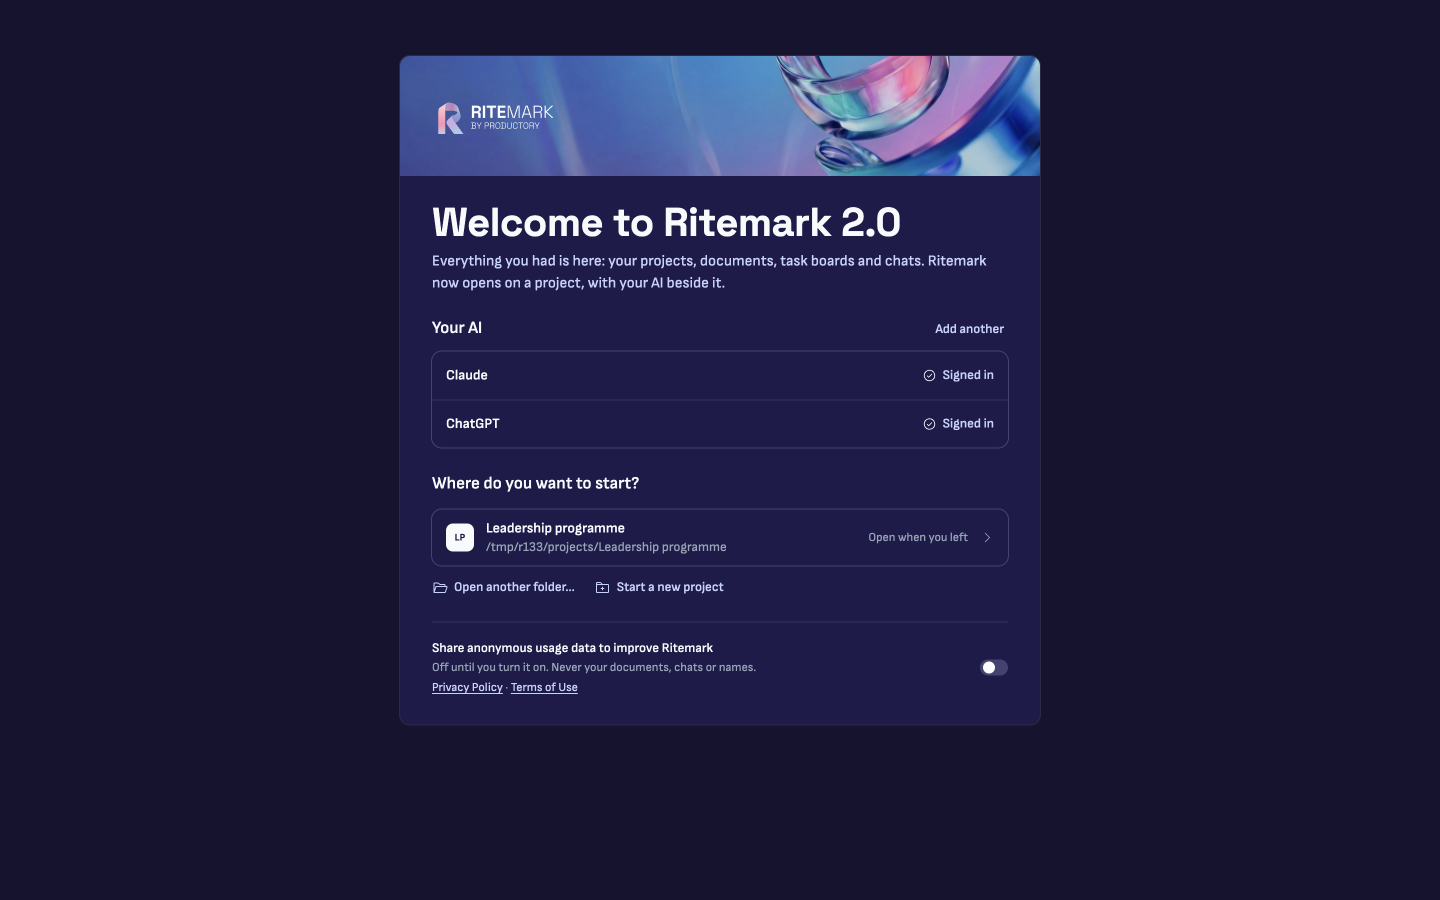
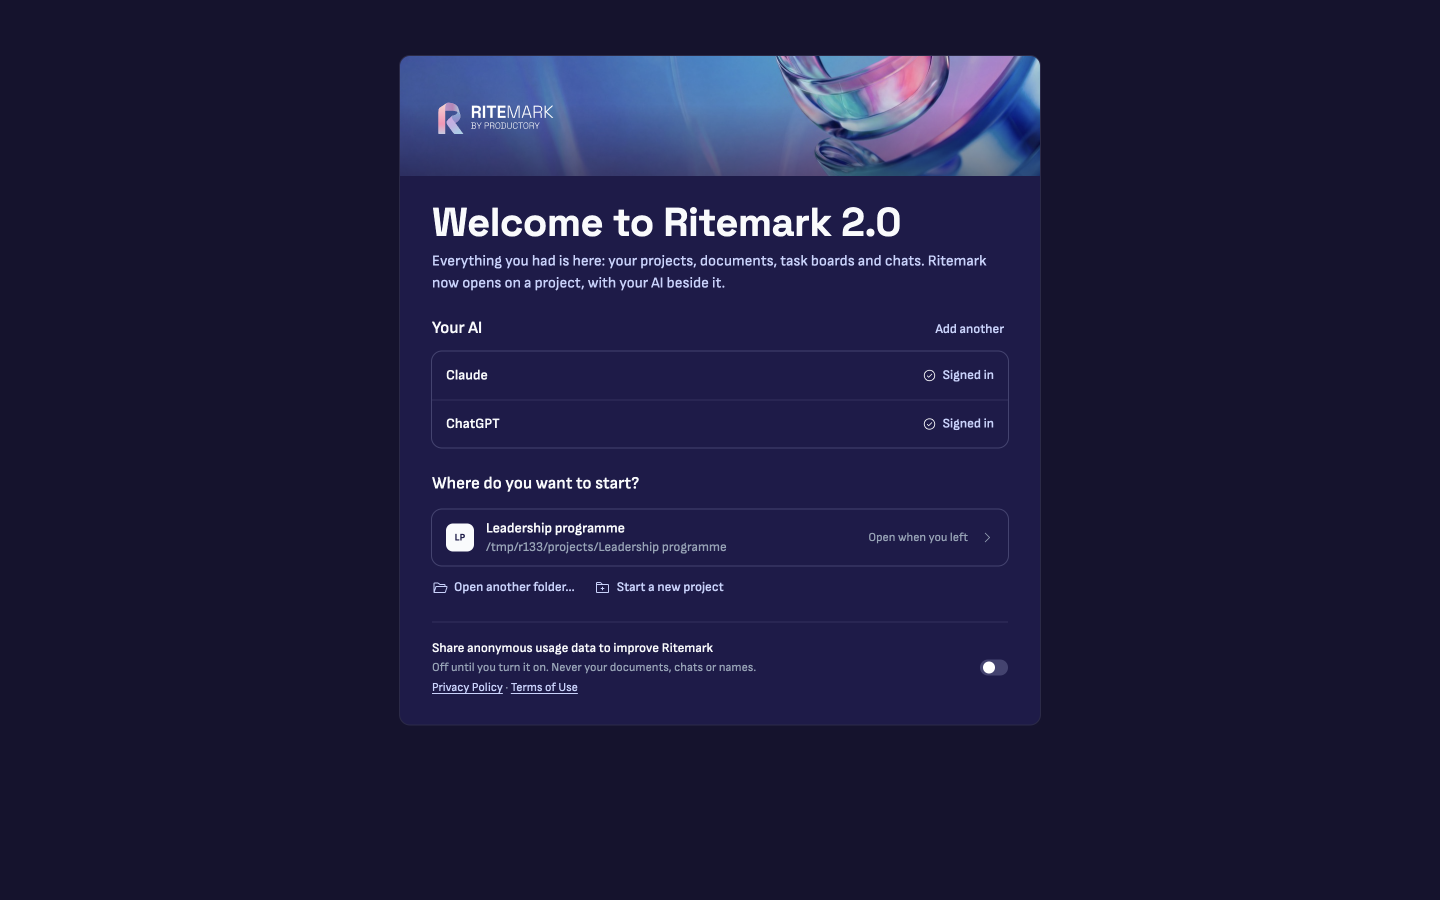
docs(sprint-133): #401 decided with Windows round 2; the welcome's frames again
- The #401 audit's Windows half (round 2 at f492948b): the first start's
  ~20 s are the extension host reading newly installed files (79%
  readFileSync, Defender scanning on first read); a second start reads them
  in 202 ms; Ritemark's CPU ~6%. Decided: nothing to move in activate();
  R15's guarantee holds the welcome usable.
- The code-cache lead: the missing product.json commit costs each window its
  V8 code cache (main bundle 302-307 ms on the Mac, CachedData empty), not
  the extension host, which has no compile cache in 1.117. Every reader of
  product.commit listed; stamping it is proposed as its own measured change.
- qa-evidence.md: the Experience lead's review and calls, S3 now passing,
  the merge's rechecks; the update and start sheets captured with the shade.

Changed region(s): [[0.2812, 0.1244, 0.7188, 0.2178]]

diff --git a/docs/development/releases/v2.0.0/sprint-133-welcome/qa-evidence.md b/docs/development/releases/v2.0.0/sprint-133-welcome/qa-evidence.md
@@ -1,6 +1,6 @@
 # Sprint 133 QA evidence
 
-Run on 18 October 2026, on the Mac (Apple Silicon), from `sprint-133-welcome`, on dev instances of this worktree launched in the background (`open -n -g`) with their own short user-data and extensions directories and their own debugging port, driven over CDP. Nothing ran on Jarmo's own profile. "Fresh" is an empty profile; "v1.14.0 profile" is one made with the installed v1.14.0, copied before each run. Usage-data sends went to a local stand-in for PostHog (`127.0.0.1:9450`) that records each request.
+Run on 18 October 2026, on the Mac (Apple Silicon), from `sprint-133-welcome` (rechecked after main's #452 was merged in), on dev instances of this worktree launched in the background (`open -n -g`) with their own short user-data and extensions directories and their own debugging port, driven over CDP. Nothing ran on Jarmo's own profile. "Fresh" is an empty profile; "v1.14.0 profile" is one made with the installed v1.14.0, copied before each run. Usage-data sends went to a local stand-in for PostHog (`127.0.0.1:9450`) that records each request.
 
 The screenshots are in [qa-evidence/](qa-evidence/), at 1440 × 900 for the welcome's own scenes (`scripts/qa/welcome-screenshots.mjs`) and 1200 × 800 for the rest.
 
@@ -12,9 +12,9 @@ Windows (S45–S47 and R15's Windows half) is not in this file yet: it runs thro
 |---|---|---|
 | S1 A fresh start with no folder | Pass | `scripts/qa/welcome-check.mjs --expect alone`: 8 of 8 (the welcome open and alone, both columns closed, no tabs, no status bar, the sheet 640 wide and centred, no Getting Started). `light-welcome-step-1.png`, `dark-welcome-step-1.png`. No terminal opened. |
 | S2 The keyboard and a screen reader | Pass for the keyboard; VoiceOver not run | Tab goes Continue/Sign in for ChatGPT, then Claude, Set up OpenCode, API keys, Skip for now, and round again. Enter and Space press; Escape closes the sheets. Two fixes from this run (below): each card's button now names its AI and is described by the card's words and state ("Continue with Claude", described "Sign in with the account you already use. / Signed in"), and focus goes back to the button that opened a sheet. VoiceOver was not turned on (a system setting on Jarmo's Mac); the accessible names and descriptions were read from the page instead. |
-| S3 Dark | Pass for the sheet's text; one label open | Every text on the sheet measured against its ground: lowest 6.03:1 in Dark, all above 4.5:1 in Light. The header's step labels sit on the illustration: "1 · Your AI" about 6.5:1 at the median pixel, but "2 · Set up project" (80% white, the kit's value, `ritemark.css:677`) about 3.4:1 on step 1. Taken to the Experience lead (below). |
+| S3 Dark | Pass | Every text on the sheet measured against its ground: lowest 6.03:1 in Dark, all above 4.5:1 in Light. The header's step labels sit on the illustration; at first "2 · Set up project" (80% white, the kit's value) was about 3.4:1. With the Experience lead's shade at the header's foot it was still 4.3:1 at its worst pixel, so both labels are full white: worst pixel 5.66:1, median 6.9:1, on steps 1 and 2 (measured against the header captured with the labels hidden). |
 | S4 The three cards | Pass | Step 1 as drawn: ChatGPT and Claude with "Sign in with the account you already use.", OpenCode with "Open models, with an API key of your own.", "You can use more than one.", API keys, Skip for now. "Codex" appears nowhere on the page. |
-| S5 API keys | Partly | The sheet opens over the welcome with the Anthropic key only (`light-welcome-key-sheet.png`); the protocol refuses an OpenAI key as a way to use ChatGPT (`welcomeState.test.ts`). Saving a real Anthropic key was not run: there is no spare key, and this Mac's Claude is signed in. The saved-key path (Checking…, then step 2) is unit-tested and was fixed in `d3cfd860`. |
+| S5 API keys | Partly | The sheet opens over the welcome with the Anthropic key only, drawn as experience 31's dialog (`*-welcome-key-sheet.png`: 440 wide, radius 12, padding 20, 32-high buttons, no X; dim 18% ink in Light, 50% near-black in Dark); the protocol refuses an OpenAI key as a way to use ChatGPT (`welcomeState.test.ts`). Saving a real Anthropic key was not run: there is no spare key, and this Mac's Claude is signed in. The saved-key path (Checking…, then step 2) is unit-tested and was fixed in `d3cfd860`. |
 | S6 Skip for now | Pass | Step 2 with "Your AI works only inside it."; no skip on step 2. |
 | S7 Already signed in | Pass | This Mac is signed in to Claude and ChatGPT: both cards show Checking…, then Signed in with Continue. |
 | S8–S11 Signing in, cancelling, failing | Not run | Each opens Jarmo's browser on his real accounts. The card states, the one-sentence failures and their words are unit-tested (`welcomeState.test.ts`: no code, "authentication", "Codex" or "runtime" in any of them). Needs a run on a signed-out machine (the Windows round can cover it). |
@@ -70,12 +70,16 @@ Each is in the commit that adds this file.
 5. **The update sheet at 1440 × 900.** With three projects it overflowed by 24 px and the scrollbar pushed the sheet 6 px left. The short sheets now keep 12 px below as above, and the scrollbar's room is kept on both edges.
 6. **A Sign in click shows progress at once (R15, #401).** On a busy first start the host can take seconds to answer; the card now shows Checking… from the click until the host's next word about that AI, so a second click can't happen (`welcomeState.test.ts`).
 
-## Open findings
+## The Experience lead's review (18 October)
 
-For the Experience lead:
-- "2 · Set up project" in 80% white on the header illustration is about 3.4:1 (11 px). Full white would be about 4.3:1; passing needs a soft shade under the progress bar or a darker crop.
-- The keys sheet's dimming covers the page, not the window's top band or edges, because it lives inside the page.
-- The AI's sheet says "Claude can work with your files" whatever the AI (`EmptyState.tsx`, from before this sprint). The landing now shows it to people who chose ChatGPT or OpenCode.
+The welcome matches experiences 2 and 32 in both themes. Their three calls, done in `719b4db7`:
+1. A soft shade at the foot of all three headers (`linear-gradient(to top, rgba(22,19,47,.45), transparent 72px)`); over it the 80% label was still 4.3:1 at its worst pixel, so both step labels are full white, their fallback (S3).
+2. The keys sheet is experience 31's dialog (S5). The dim stays inside the welcome's page: letting the page cover the whole window would put a webview over the window's drag area and Windows' buttons, more than a small change, which they accepted for step 2.
+3. The AI's sheet names the AI in use: "Claude / OpenCode can work with your files" (`EmptyState.tsx`), "ChatGPT can work with your files" (Codex's own empty state). Checked live for Claude and ChatGPT; OpenCode by code (no key on the test profile). The composer's "Ask Codex…" is unchanged, from before this sprint.
+
+Also from the qa-validator: the welcome now saves an OpenRouter key only with `opencode-integration` on, as Settings does.
+
+## Open findings
 
 Outside this sprint's files, for follow-up issues:
 - Flows' storage (`FlowStorage.ts:44`, a recursive `mkdir` of `.ritemark/flows`) brings back a project folder that was deleted while it was open.
@@ -83,13 +87,14 @@ Outside this sprint's files, for follow-up issues:
 
 ## The frame baseline
 
-`scripts/qa/frame-screenshots.mjs --compare docs/development/frame-baseline` on a fresh profile with the baseline's sample project: 0 of 18 scenes over the 0.5% line (0–0.34%), all of it the muted extensions in the tree and tabs. The baseline is unchanged; the welcome's own scenes are in `qa-evidence/` for Jarmo to approve into the baseline (`docs/development/frame-baseline/README.md`: a new baseline only with his approval).
+`scripts/qa/frame-screenshots.mjs --compare docs/development/frame-baseline` on a fresh profile with the baseline's sample project: 0 of 18 scenes over the 0.5% line (0–0.34%), all of it the muted extensions in the tree and tabs. The same after main's #452 was merged in. The baseline is unchanged; the welcome's own scenes are in `qa-evidence/` for Jarmo to approve into the baseline (`docs/development/frame-baseline/README.md`: a new baseline only with his approval).
 
 ## Checks
 
 - `npm test` in `extensions/ritemark`: pass (the welcome's six test files, consent, analytics and the healer included).
 - Webview and extension TypeScript: clean. `compile-check-ts-native` on the patched VS Code: clean.
 - Patches: 18 apply from pristine, a second run is clean, and the result is identical (Phase 3).
+- After merging main (#452, the Sprint 132 closeout): patch 018's `ritemarkSurfaces.css` section rebuilt from a three-way merge of the CSS itself; all 18 patches apply to a pristine tree, which differs from before the merge in exactly #452's three VS Code files and the CSS. The stacking check, `compile-check-ts-native`, 102 VS Code tests (Ritemark, labels, Explorer, notifications), `npm test` and `validate-qa.sh` pass, and the welcome's scenes were captured again.
 
 ## A harness note
 

diff --git a/docs/development/releases/v2.0.0/sprint-133-welcome/research/ext-host-start-401-audit.md b/docs/development/releases/v2.0.0/sprint-133-welcome/research/ext-host-start-401-audit.md
@@ -1,6 +1,6 @@
 # Audit: the extension host's first seconds (R15, #401)
 
-Started 2026-10-18 on `sprint-133-welcome`. The Windows half waits for Windows round 2's numbers, which the Development manager's Windows session is measuring; this file is completed with them before the merge.
+Started 2026-10-18 on `sprint-133-welcome`; completed the same day with Windows round 2's numbers from the Development manager's Windows session.
 
 ## What is known
 
@@ -20,6 +20,39 @@ The installed v1.14.0, a fresh profile and extensions directory, an empty window
 
 Nothing in Ritemark's start-up code holds the host on the Mac. The Claude and Codex probes run as child processes without blocking (`utils/runProcess.ts`, v1.12.0, #366 and #367).
 
+## Windows, 18 October (round 2)
+
+Main `f492948b`, installed over round 1 on Jarmo's own profile (the real update case), the extension host profiled with `--inspect-brk-extensions` (about 0.2 s pause). Seconds from the log session's start:
+
+| Start | Extension host started | Ritemark activated | Eager activation done | Unresponsive | `readFileSync` in the extension host |
+|---|---|---|---|---|---|
+| 1st after install | 10.6 | 12.7 | 26.4 | 6.0 s, 0.6 s | 7,763 ms |
+| 2nd start | 5.6 | 6.0 | 9.6 | none | 202 ms |
+| 1st after reinstalling the same build | 10.9 | 13.0 | 25.7 | 5.5 s, 0.4 s | 7,772 ms |
+
+- On a first start the extension host is busy for about 20 s, 79% of it in `readFileSync`: module loads through `extensionHostProcess.js`'s `_load`, `undici` and `@vscode/proxy-agent`.
+- Ritemark's own CPU stays at about 6% of 16 cores.
+- Defender (`MsMpEng`) averaged 6.6% of the machine (peak 18.7%) on the reinstall's first start, 2.5% on the second, 0.5% idle.
+- The same build's second start reads the same files in 202 ms. What differs is files the installer has just written, which Defender scans on their first read. No security setting was changed.
+- The CPU profiles and samples stay on the Windows PC (they hold Windows user paths).
+
+## A second lead: the V8 code cache
+
+The Windows session noticed that Ritemark's `product.json` has no `commit` (`""` on Windows, no key on the Mac's v1.14.0), and VS Code keeps a code cache only with one (`src/main.ts`, `getCodeCachePath`). Checked here:
+
+- **What the cache covers.** In VS Code 1.117 the code cache is the windows' (`v8CacheOptions: 'bypassHeatCheck'`, `windowImpl.ts:711`), the session's (`app.ts:387`) and the shared process's. Nothing turns on a compile cache for the extension host. So a missing commit cannot explain #401's extension-host time: those 20 s are file reads, with or without a cache.
+- **What it costs.** On the Mac, the installed v1.14.0 on a fresh profile, warm OS cache: loading the window's main bundle (`code/willLoadWorkbenchMain` to `code/didLoadWorkbenchMain`) takes 302–307 ms over three starts, and `CachedData` stays empty. That is the most a cache could save there; with it the compile part would come from the cache on the second start onward.
+- **Not measured with a commit.** Stamping one into a copy of the signed app broke the bundle's seal, and macOS refused to start the copy (it showed a Gatekeeper prompt). A with/without number needs a build made with a commit: a follow-up, measured on the Mac and Windows from clean-room builds.
+- **What else reads `product.commit`** (VS Code 1.117, desktop):
+  - VS Code's update service: off without `updateUrl`, which Ritemark doesn't set (`abstractUpdateService.ts:158`).
+  - The extensions scanner: one more part of its cache key (`extensionsScannerService.ts:503`), so the cache would be dropped per build; the key already has the version, date and folder times, so Ritemark's extension updates are unaffected.
+  - The extension host's version check compares the window's and its own `product.json` (`extensionHostProcess.ts:342`): the same file, so it passes.
+  - The integrated browser's reported revision (`browserViewGroup.ts:154`), the About dialog, the issue reporter and startup timings: text only.
+  - Telemetry's common properties (shared process): sent only with VS Code telemetry, which Ritemark keeps off.
+  - Inert for Ritemark: emergency alerts, Settings Sync, the extension gallery's headers, the web worker extension host's CDN template, remote servers' paths (`network.ts:257`); Ritemark sets none of those endpoints.
+  - The integrity check stores a commit with its "don't show" choice; patch 004 skips the check.
+  - The code-cache cleaner deletes caches of other commits, which keeps `CachedData` to the current build.
+
 ## What runs once per install
 
 Everything that differs between the first start after an install or update and a later start is work on files the installer has just written:
@@ -31,10 +64,11 @@ Everything that differs between the first start after an install or update and a
 
 None of this is Ritemark's start-up logic; it is the cost of new files on disk. Whether that is all of #401 is what the Windows numbers decide: process start to extension host, MsMpEng's CPU during the start, a CPU profile of that first start, and a second start to compare.
 
-## The decision (provisional until the Windows numbers)
+## The decision (18 October)
 
-- **If the first start's profile shows time inside `activate()` or a synchronous Ritemark step:** move it off the start path or make it asynchronous in this sprint, as #366 and #367 did.
-- **If it is once-per-install work (Defender, a cold code cache):** record it in #401 and rely on R15's guarantee, which this sprint builds either way.
+#401's time is once-per-install work outside Ritemark's code: Defender scanning the files the installer just wrote, as they are first read. Ritemark's `activate()` is not the cause (6% CPU on Windows, 23 ms synchronous on the Mac). Per the plan's rule, nothing moves in `activate()` in this sprint; #401 gets these numbers, and R15's guarantee holds the welcome usable meanwhile.
+
+The missing commit is a separate, smaller matter: it costs each window its compile cache, not the extension host's first start. Stamping the source commit at build time (shell-tier: `build-prod.sh`, `build-prod-windows.sh`, the Windows CI) is proposed as its own change, measured with and without on clean-room builds; it is not in this PR.
 
 ## R15's guarantee, built in any case
 

diff --git a/docs/development/releases/v2.0.0/sprint-133-welcome/tasks.md b/docs/development/releases/v2.0.0/sprint-133-welcome/tasks.md
@@ -16,7 +16,7 @@ Jarmo approved the sprint plan on 18 October ("approved with your proposals"), a
 - [x] `research/getting-started-retirement-audit.md` (W2, R12): the hunks of 001, 016 and 017 sorted; every route into Getting Started; `IOnboardingService` (007); where `workbench.startupEditor: none` wins; the stacking check's pairs
 - [x] `research/welcome-alone-audit.md` (W3, R1, R6): the context key and the class; what it hides; the traffic lights and Windows' buttons; no jump at the landing; the empty desk's tiles
 - [x] `research/muted-extension-audit.md` (W9, R13): the label path for the tree and the tabs; highlights; the hunk's shape
-- [ ] `research/ext-host-start-401-audit.md` (W10, R15): a CPU profile of a fresh profile's first seconds on the Mac (done 18 October); on Windows, the first start after a clean install with Defender on (process start to extension host, MsMpEng's CPU, a CPU profile, then a second start to compare), through the Development manager's Windows session; the decision
+- [x] `research/ext-host-start-401-audit.md` (W10, R15): a CPU profile of a fresh profile's first seconds on the Mac (done 18 October); on Windows, the first start after a clean install with Defender on (process start to extension host, MsMpEng's CPU, a CPU profile, then a second start to compare), through the Development manager's Windows session; the decision — Windows round 2's numbers in; decided 18 October: Defender's first reads, not Ritemark's code
 - [x] `research/confirmations.md`: the 1.x signal (`lastConfirmedVersion`); 1.x's usage-data keys on v1.14.0 profiles after OK, Opt Out, the toast's × and no answer; the sign-in entry points and their progress events; how the healer closes the text tab
 - [x] The sample project's content (R5): written by the Experience lead and approved by Jarmo, 18 October (`ritemark-dev` 70701c1, `product/design/experience/sample-project/Leadership programme`). Copied as it is into `extensions/ritemark/sample-project/`, with `.ritemark/tasks/` and the one-line `CLAUDE.md`; checked that every card parses, and that no real person's name, path or account is in it
 - [x] The 1.x OK reading decided by Jarmo (18 October): a notice closed without Opt Out counts as the OK (technical-plan.md, W1); write it into `research/confirmations.md` (R7)
@@ -74,7 +74,7 @@ Jarmo approved the sprint plan on 18 October ("approved with your proposals"), a
 - [x] `utils/stickyTabHealer.ts` + `extension.ts`: the healer closes the text tab it replaced; test (R11, #429)
 - [x] Ritemark Settings: Usage data with the links; Git and Node rows under the runtime choice, for this computer's runtime only (R7, R12)
 - [x] 018: the muted extension per its audit; its VS Code unit test (R13)
-- [ ] #401: the fix in `activate` if the audit finds one in Ritemark's code; the welcome's queued click either way (R15) — the welcome's side is in (a Sign in click shows Checking… until the host answers; the Mac's profile found nothing in `activate`); the decision waits for the Windows numbers
+- [x] #401: the fix in `activate` if the audit finds one in Ritemark's code; the welcome's queued click either way (R15) — the welcome's side is in (a Sign in click shows Checking… until the host answers; the Mac's profile found nothing in `activate`); nothing to move in `activate` (the audit's decision)
 
 ## Phase 6: QA, merge and closeout
 
